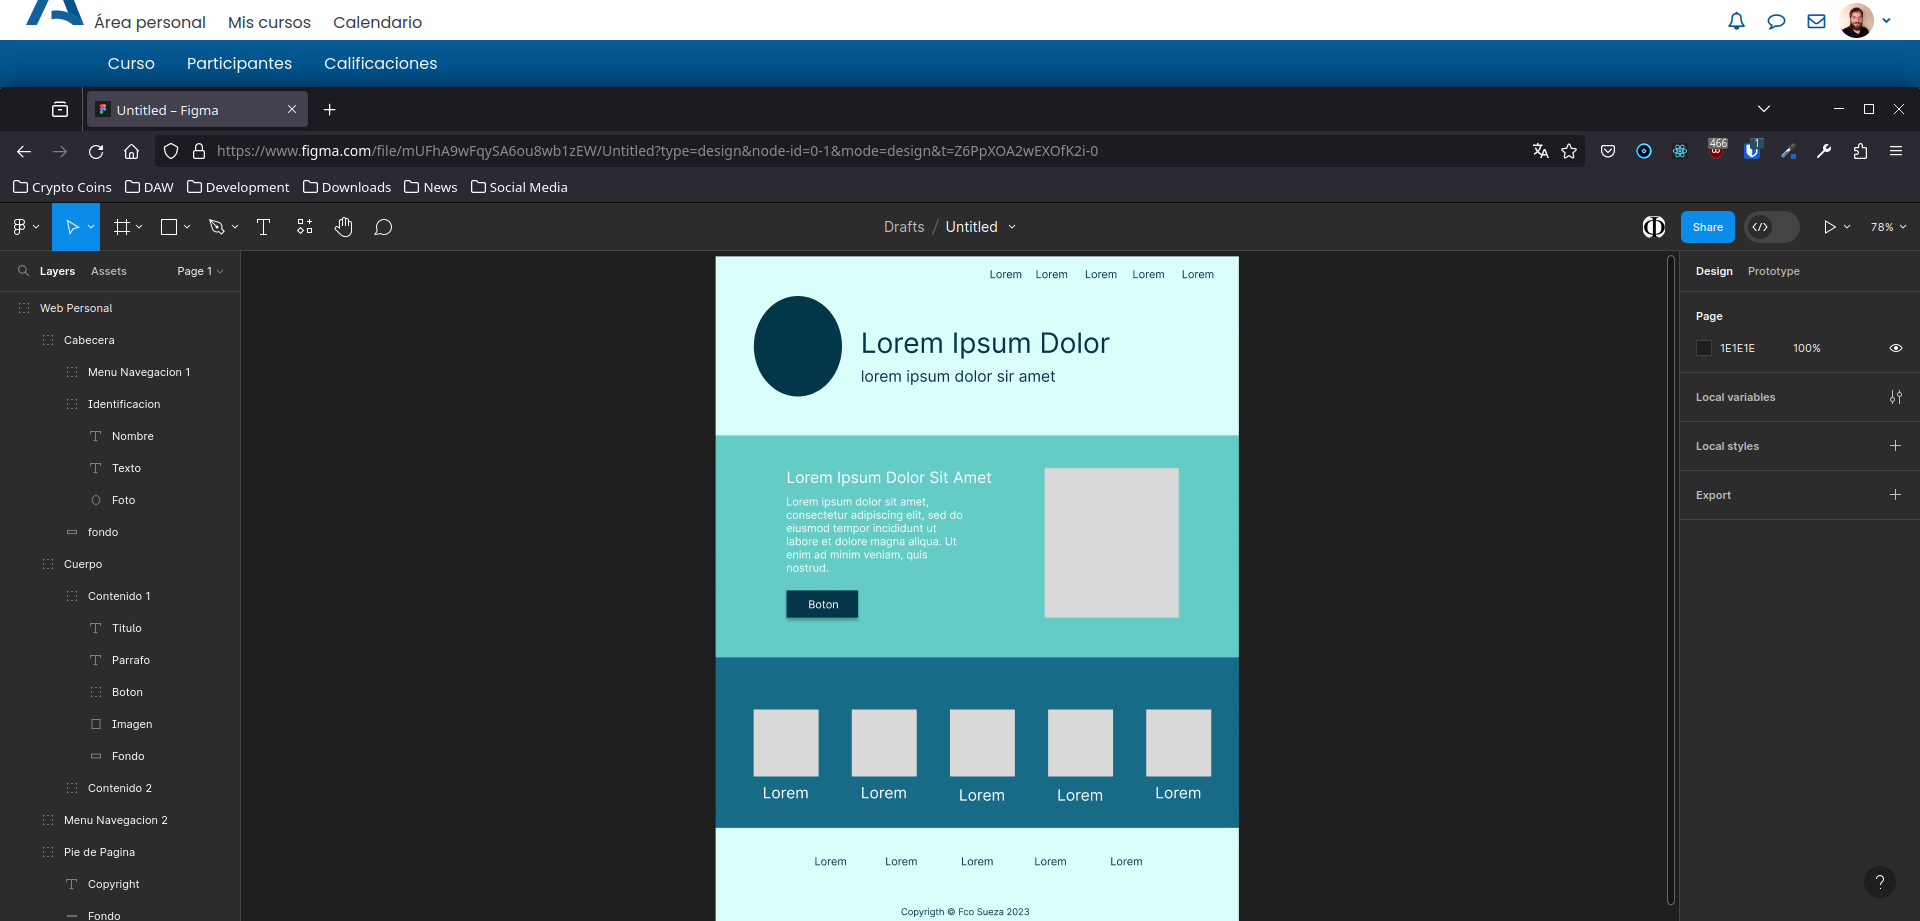
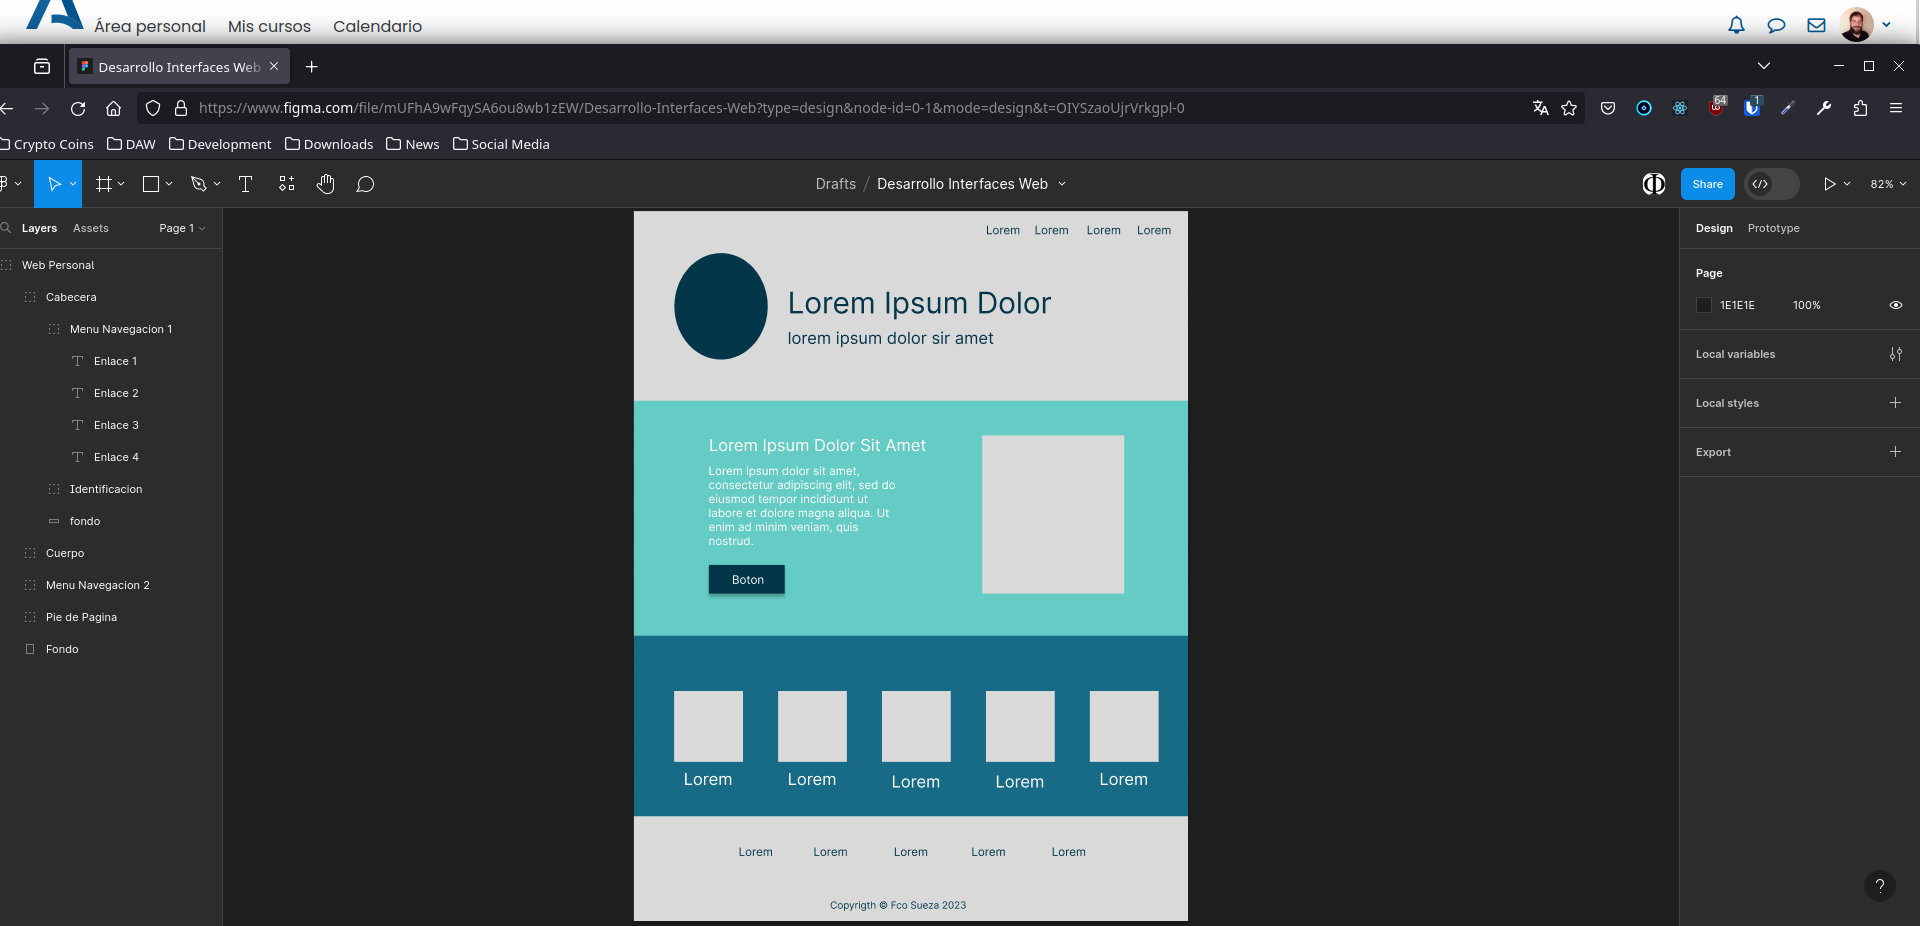
Added style to exercise 6 in DIW\'s Tarea1

diff --git a/DIW/Tareas/Tema1/web/index.html b/DIW/Tareas/Tema1/web/index.html
@@ -18,67 +18,80 @@
     <title>Fran Sueza Web Developments</title>
   </head>
 
-  <header>
-    <nav id="nav-1" class="flex">
-      <a href="#ident">Lorem</a>
-      <a href="#conte-1">Lorem</a>
-      <a href="#conte-2">Lorem</a>
-      <a href="#pie">Lorem</a>
-    </nav>
-
-    <div id="ident">
-      <img src="images/personal.jpg" alt="imagen del autor" width="200px" height="220px">
-      <h1>Lorem Ipsum Dolor</h1>
-      <h5>Lorem Ipsum Dolor sit Amet</h5>
-    </div>
-  </header>
-
   <body>
-    <section id="conte-1">
-      <div id="texto">
-        <h3>Lorem Ipsum Dolor </h3>
-        <p>Eu elit ipsum ex duis dolore elit occaecat ullamco enim. Anim reprehenderit
-          tempor et esse in in. Duis fugiat magna consectetur laborum consectetur laboris
-          labore quis esse sint est.</p>
-        <button>Boton</button>
-      </div>
+    <header class="header">
+      <nav id="nav-1" class="flex nav-1">
+        <a href="#nav-1" class="link">Portada</a>
+        <a href="#seccion-1" class="link">Nosotros</a>
+        <a href="#seccion-2" class="link">Servicios</a>
+        <a href="#pie" class="link">Copyright</a>
+      </nav>
 
-      <img src="images/product.jpeg" alt="">
-    </section>
+      <div id="ident" class="flex">
+        <img class="header__image" src="images/personal.jpg" alt="imagen del autor">
+        <div class="header__text flex">
+          <h1 class="header__title">Francisco Sueza Rodríguez</h1>
+          <h5 class="header__subtitle">Desarrollo de aplicaciones Web</h5>
+        </div>
+      </div>
+    </header>
 
-    <section id="conte-2" class="flex">
-      <div>
-        <img src="images/servicio.jpeg" alt="">
-        <h5>Lorem</h5>
-      </div>
-      <div>
-        <img src="images/servicio.jpeg" alt="">
-        <h5>Lorem</h5>
-      </div>
-      <div>
-        <img src="images/servicio.jpeg" alt="">
-        <h5>Lorem</h5>
-      </div>
-      <div>
-        <img src="images/servicio.jpeg" alt="">
-        <h5>Lorem</h5>
-      </div>
-      <div>
-        <img src="images/servicio.jpeg" alt="">
-        <h5>Lorem</h5>
-      </div>
-    </section>
 
-    <nav id="nav-2" class="" flex>
-      <a href="#ident">Lorem</a>
-      <a href="#conten-1">Lorem</a>
-      <a href="#conten-2">Lorem</a>
-      <a href="#pie">Lorem</a>
-    </nav>
+    <main id="contenido">
+      <section id="seccion-1" class="section-1">
+        <div class="flex content">
+          <div id="texto" class="content__text">
+            <h3 class="content__title">Desarrollos Web a Medida </h3>
+            <p class="content__para">Hoy en día la presencia en el internet es algo determinante para cualquier negocio.
+              Con años de experiencia en el sector, podemos asesorarle para que ponga su negocio en la red y empiece a
+              ver los beneficios que ellos conlleva en poco tiempo. Desde simples Webs para matener la presencia en la red, pasando por aplicaciones webs para gestionar su negocio
+              y montar una tienda en la red. No dude en ponerse en contacto con nosotros y podremos asesorarle y elegir el tipo de aplicación web que mejor se adapte a sus
+              necesidades.
+            </p>
+            <button type="button" class="content__button">Información</button>
+          </div>
+
+          <img class="content__image" src="images/product.jpeg" alt="">
+        </div>
+      </section>
+
+      <section id="seccion-2" class="section-2">
+        <div class="flex content gallery">
+          <div class="gallery__element">
+            <img class="gallery__img" src="images/servicio.jpeg" alt="">
+            <h5 class="gallery__text">Webs</h5>
+          </div>
+          <div class="gallery__element">
+            <img class="gallery__img" src="images/servicio.jpeg" alt="">
+            <h5 class="gallery__text">Stores</h5>
+          </div>
+          <div class="gallery__element">
+            <img class="gallery__img" src="images/servicio.jpeg" alt="">
+            <h5 class="gallery__text">Gestion</h5>
+          </div>
+          <div class="gallery__element">
+            <img class="gallery__img" src="images/servicio.jpeg" alt="">
+            <h5 class="gallery__text">Administracion</h5>
+          </div>
+          <div class="gallery__element">
+            <img class="gallery__img" src="images/servicio.jpeg" alt="">
+            <h5 class="gallery__text">Diseño</h5>
+          </div>
+        </div>
+      </section>
+
+      <nav id="nav-2" class="flex nav-2">
+        <a href="#nav-1" class="link">Portada</a>
+        <a href="#seccion-1" class="link">Nosotros</a>
+        <a href="#seccion-2" class="link">Servicios</a>
+        <a href="#pie" class="link">Copyright</a>
+      </nav>
+
+    </main>
+    <footer id="pie" class="foot">
+      <p>Copyright </p>
+    </footer>
+
   </body>
-
-  <footer id="pie">
-    <p>Copyright</p>
-  </footer>
 
 </html>

diff --git a/DIW/Tareas/Tema1/web/style.css b/DIW/Tareas/Tema1/web/style.css
@@ -18,12 +18,23 @@
   --text-color: #FFF;
 }
 
-/* Valores para toda la página */
+/* Valores que afectan a toda la página.
+ *
+ * NOTA: el valor font-size se establece a 62.5% para
+ * que así sea más cómodo trabajar con el tamaño de las fuentes
+ * al usar unidades relativas (rem, em), ya que serán múltiplos de 10px.
+ */
 
 html {
   font-family: 'Roboto', sans-serif;
-  height: 100vh;
-  width: 100vw;
+  font-size: 62.5%;
+  min-height: 100vh;
+  scroll-behavior: smooth;
+}
+
+body {
+  height: 100%;
+  background-color: var(--main-background);
 }
 
 /* Clases de utilidad */
@@ -31,5 +42,144 @@ html {
 .flex {
   display: flex;
   flex-direction: row;
-  flex-wrap: wrap;
+  flex-wrap: nowrap;
+}
+
+/* Estilo de los bloques principales */
+
+.header {
+  color: var(--details);
+}
+
+.header,
+.content,
+.foot {
+  width: 50%;
+  min-width: 60rem;
+  margin: 0 auto;
+}
+
+.nav-1,
+.nav-2 {
+  font-size: 1.8rem;
+  justify-content: space-around;
+  color: var(--details);
+}
+
+.nav-1 {
+  width: 50%;
+  margin-left: auto;
+  padding: 1rem;
+}
+
+.nav-2 {
+  margin: 5rem auto;
+  width: 50%;
+}
+
+.content {
+  color: var(--text-color);
+  justify-content: space-around;
+}
+
+.section-1,
+.section-2 {
+  padding: 8rem;
+}
+
+.section-1 {
+  background-color: var(--background-light);
+}
+
+.section-2 {
+  background-color: var(--background-dark);
+}
+
+.gallery {
+  justify-content: space-around;
+}
+
+
+.foot {
+  color: var(--details);
+}
+
+/* Estilo de elementos */
+
+.link {
+  text-decoration: none;
+  font-weight: bold;
+}
+
+.header__image {
+  width: 22%;
+  min-width: 15rem;
+  border-radius: 50%;
+  margin: 5rem;
+}
+
+.header__text {
+  flex-direction: column;
+  justify-content: center;
+}
+
+.header__title {
+  font-size: 5rem;
+  font-weight: bold;
+  margin-bottom: 1rem;
+
+}
+
+.header__subtitle {
+  font-size: 2.5rem;
+  padding-left: 0.4rem;
+}
+
+.content__title {
+  font-size: 3rem;
+}
+
+.content__para {
+  font-size: 1.8rem;
+  width: 80%;
+  margin: 2rem 0;
+}
+
+.content__image {
+  width: 40rem;
+  height: 40rem;
+}
+
+.content__button {
+  font-size: 1.6rem;
+  padding: 0.5rem 2rem;
+  background-color: var(--details);
+  color: var(--text-color);
+  border: 0;
+  box-shadow: 0.1rem 0.5rem 0.5rem rgba(0, 0, 0, 0.5);
+}
+
+.gallery__element {
+  width: 70%;
+  margin: 0 1rem;
+}
+
+.gallery__img {
+  width: 100%;
+  box-shadow: 0.1rem 0.5rem 0.5rem rgba(0, 0, 0, 0.5);
+}
+
+
+.gallery__text {
+  font-size: 2rem;
+  text-align: center;
+  margin: 1rem 0;
+}
+
+
+
+.foot {
+  font-size: 1.6rem;
+  text-align: center;
+  padding: 2rem;
 }
